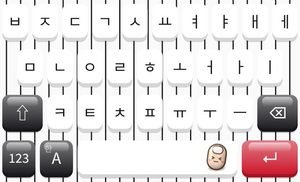
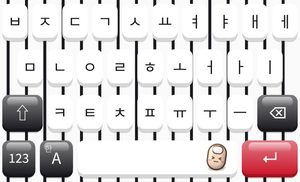
2026.11.11-8 핀스트라이프 두껍게, 베이지 삭제
Claude-Session: https://claude.ai/code/session_01GvSCgEXELCVfxACkb9NKF6

diff --git a/Shared/KBTheme.swift b/Shared/KBTheme.swift
@@ -89,11 +89,6 @@ struct KBTheme {
                 accent: c(232, 92, 40), depth: 4, radius: 11,
                 bgImage: "bg_yellow", enterIcon: "enter_chestnut", sticker: "sticker_chestnut",
                 gloss: true, shadowColor: c(200, 140, 30), sprinkle: "sprinkle_ginkgo_"),
-        KBTheme(id: "beige", name: "베이지 & 그린 레드",
-                bg: c(232, 221, 200), key: c(248, 241, 226), special: c(30, 74, 48),
-                pressKey: c(232, 222, 204), pressSpecial: c(22, 58, 38),
-                text: c(72, 52, 36), specialText: c(248, 241, 226),
-                accent: c(176, 30, 36), depth: 4, radius: 10, bgImage: "bg_linen", short: "베이지"),
         KBTheme(id: "pin", name: "핀스트라이프",
                 bg: c(250, 250, 251), key: .white, special: c(30, 30, 34),
                 pressKey: c(236, 236, 238), pressSpecial: c(54, 54, 58),

diff --git a/App/FingerErrorApp.swift b/App/FingerErrorApp.swift
@@ -96,7 +96,7 @@ struct ContentView: View {
                 }
             }
             .safeAreaInset(edge: .bottom) {
-                Text("버전 2026.11.11-7 (핀스트라이프 · 베이지) · 100개마다 리포트 · 한/A 영어 · 테마별 팻핑이 · 기념일").font(.caption2).foregroundStyle(.secondary).padding(4)
+                Text("버전 2026.11.11-8 (두꺼운 핀스트라이프) · 100개마다 리포트 · 한/A 영어 · 테마별 팻핑이 · 기념일").font(.caption2).foregroundStyle(.secondary).padding(4)
             }
             .navigationTitle("핑거에러")
             // 3D 젤리: 크림 배경 + 복숭아 포인트
